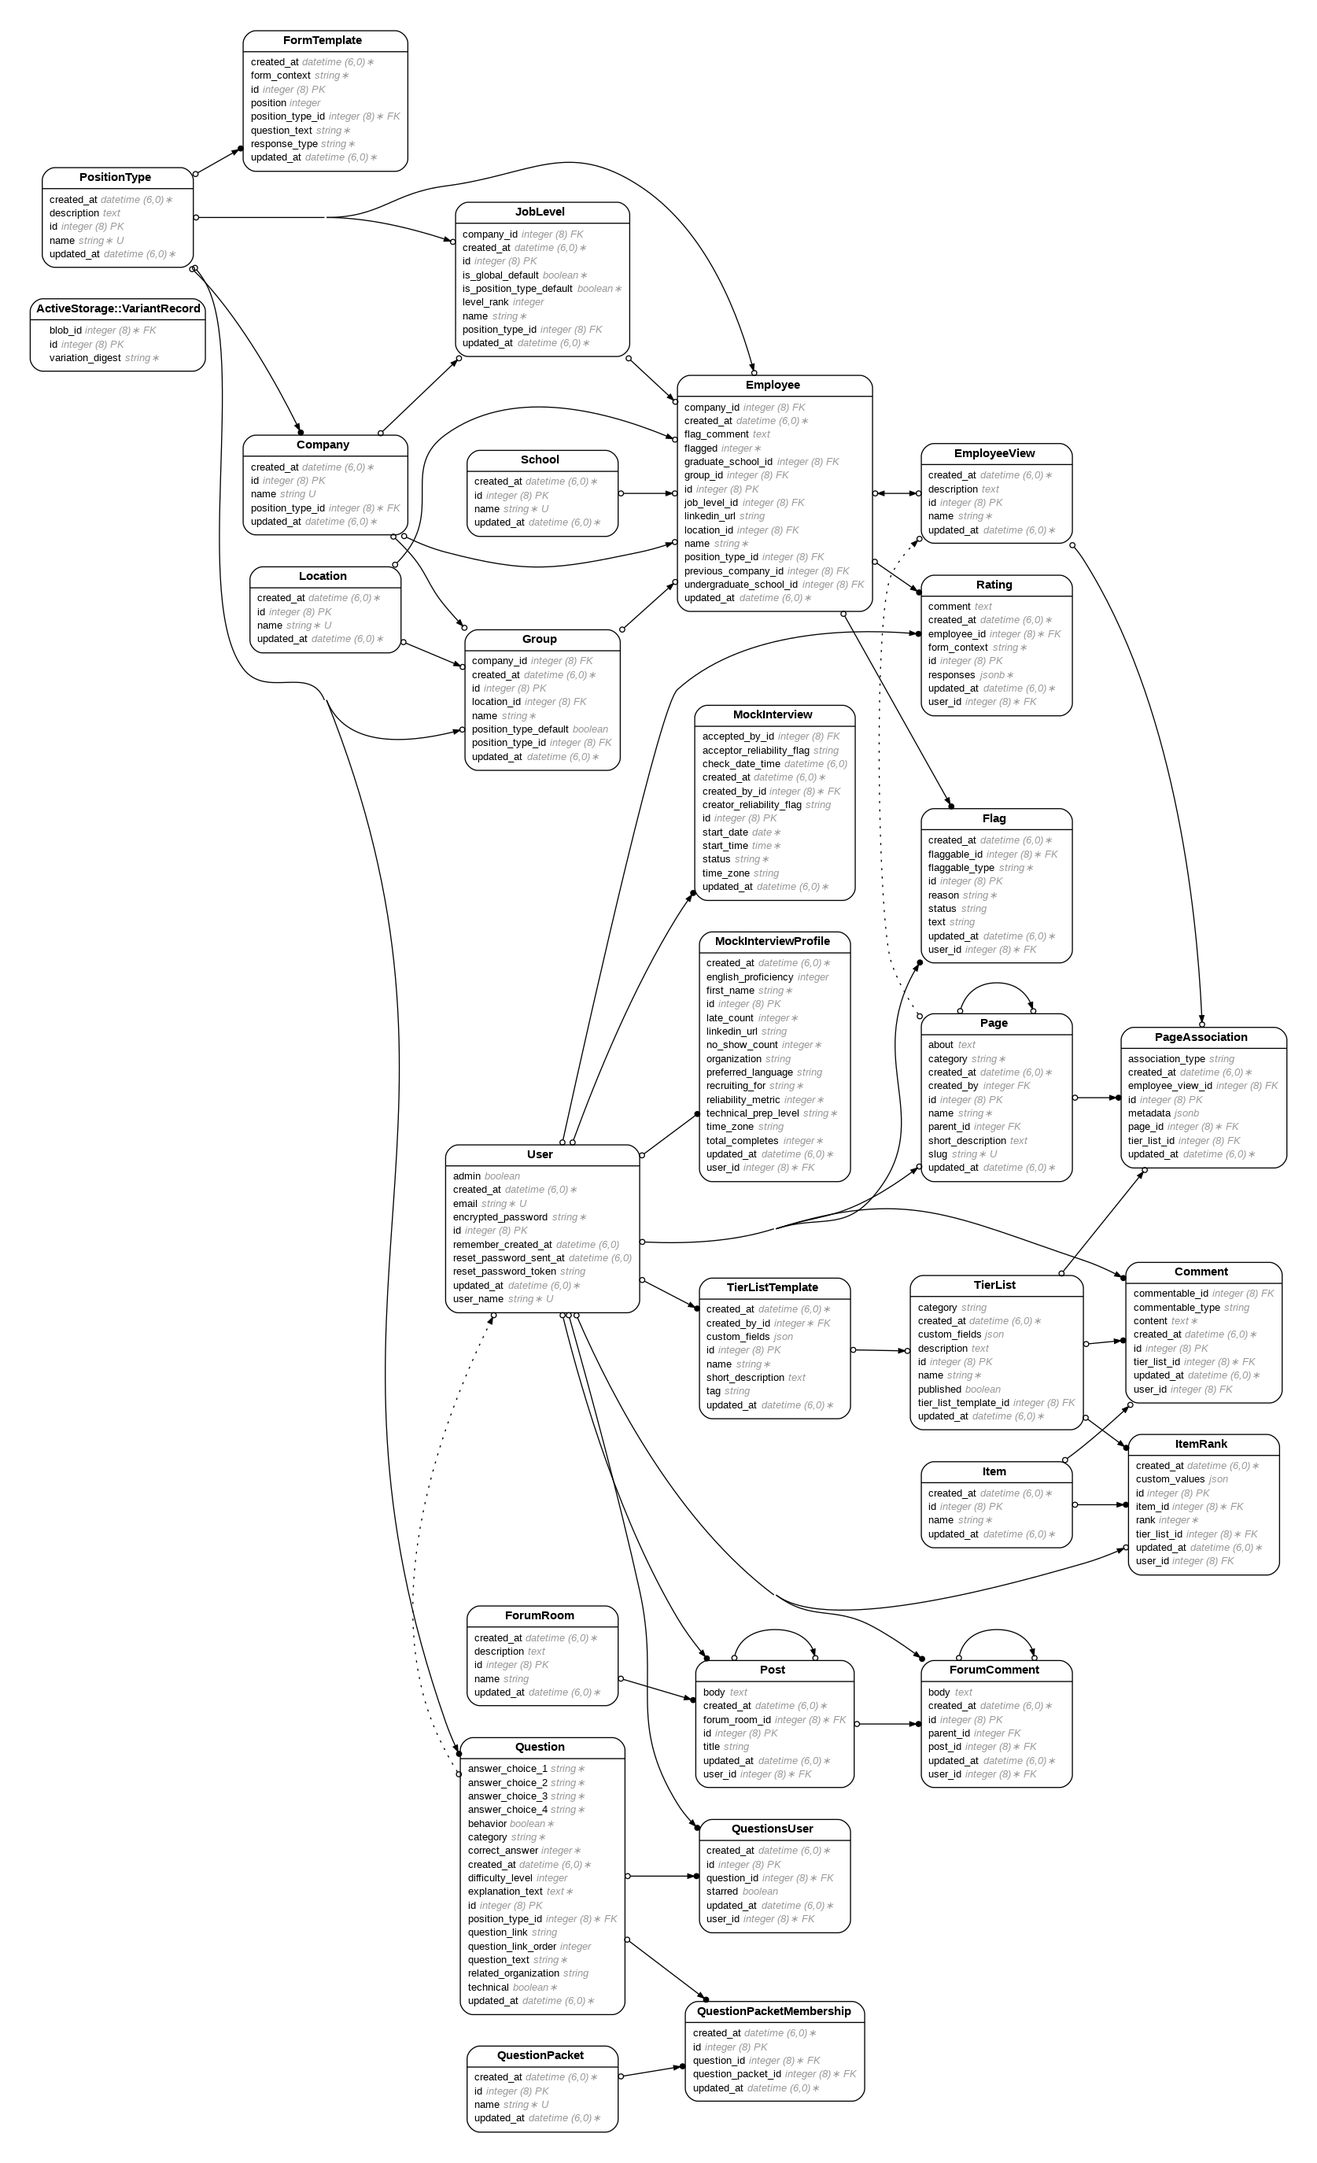
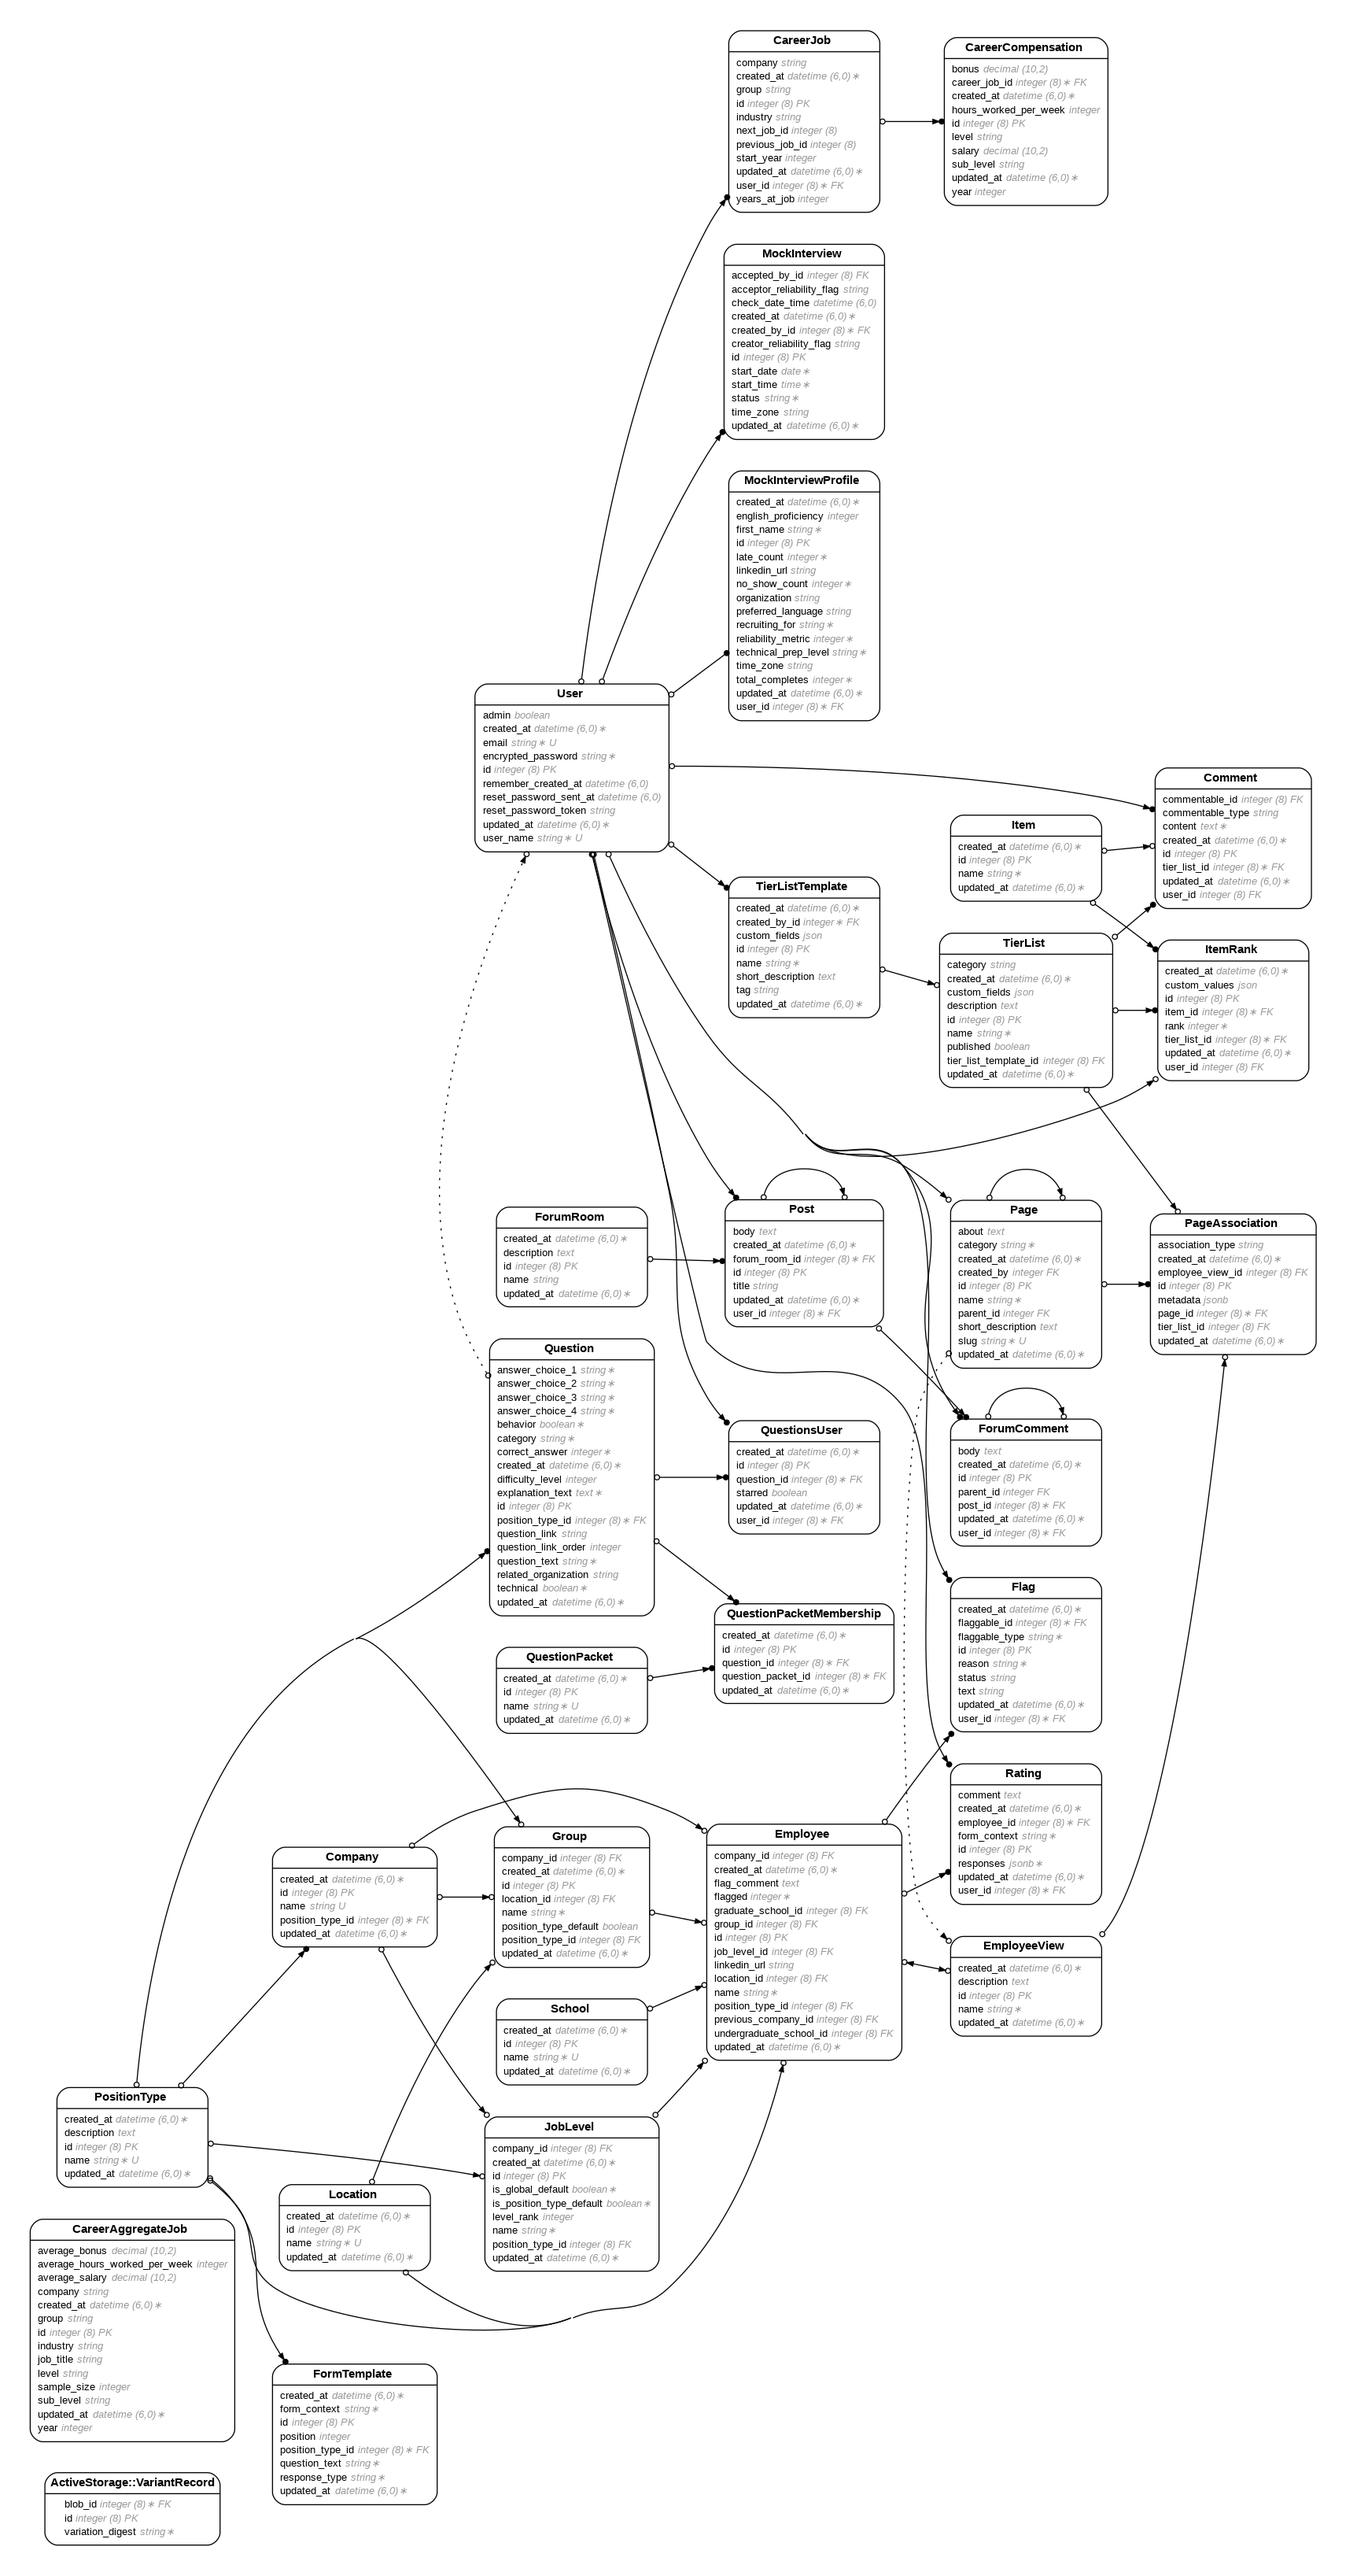
Created the compensation data back end

diff --git a/db/schema.rb b/db/schema.rb
@@ -10,7 +10,7 @@
 #
 # It's strongly recommended that you check this file into your version control system.
 
-ActiveRecord::Schema[7.1].define(version: 2025_01_22_221427) do
+ActiveRecord::Schema[7.1].define(version: 2025_01_28_023204) do
   # These are extensions that must be enabled in order to support this database
   enable_extension "plpgsql"
 
@@ -40,6 +40,51 @@ ActiveRecord::Schema[7.1].define(version: 2025_01_22_221427) do
     t.bigint "blob_id", null: false
     t.string "variation_digest", null: false
     t.index ["blob_id", "variation_digest"], name: "index_active_storage_variant_records_uniqueness", unique: true
+  end
+
+  create_table "career_aggregate_jobs", force: :cascade do |t|
+    t.string "job_title"
+    t.string "company"
+    t.string "industry"
+    t.string "group"
+    t.decimal "average_salary", precision: 10, scale: 2
+    t.decimal "average_bonus", precision: 10, scale: 2
+    t.integer "average_hours_worked_per_week"
+    t.integer "sample_size"
+    t.integer "year"
+    t.string "level"
+    t.string "sub_level"
+    t.datetime "created_at", null: false
+    t.datetime "updated_at", null: false
+  end
+
+  create_table "career_compensations", force: :cascade do |t|
+    t.bigint "career_job_id", null: false
+    t.integer "year"
+    t.string "level"
+    t.string "sub_level"
+    t.decimal "salary", precision: 10, scale: 2
+    t.decimal "bonus", precision: 10, scale: 2
+    t.integer "hours_worked_per_week"
+    t.datetime "created_at", null: false
+    t.datetime "updated_at", null: false
+    t.index ["career_job_id"], name: "index_career_compensations_on_career_job_id"
+  end
+
+  create_table "career_jobs", force: :cascade do |t|
+    t.bigint "user_id", null: false
+    t.string "company"
+    t.string "industry"
+    t.string "group"
+    t.integer "start_year"
+    t.integer "years_at_job"
+    t.bigint "previous_job_id"
+    t.bigint "next_job_id"
+    t.datetime "created_at", null: false
+    t.datetime "updated_at", null: false
+    t.index ["next_job_id"], name: "index_career_jobs_on_next_job_id"
+    t.index ["previous_job_id"], name: "index_career_jobs_on_previous_job_id"
+    t.index ["user_id"], name: "index_career_jobs_on_user_id"
   end
 
   create_table "comments", force: :cascade do |t|
@@ -392,6 +437,10 @@ ActiveRecord::Schema[7.1].define(version: 2025_01_22_221427) do
 
   add_foreign_key "active_storage_attachments", "active_storage_blobs", column: "blob_id"
   add_foreign_key "active_storage_variant_records", "active_storage_blobs", column: "blob_id"
+  add_foreign_key "career_compensations", "career_jobs"
+  add_foreign_key "career_jobs", "career_jobs", column: "next_job_id"
+  add_foreign_key "career_jobs", "career_jobs", column: "previous_job_id"
+  add_foreign_key "career_jobs", "users"
   add_foreign_key "comments", "tier_lists"
   add_foreign_key "comments", "users"
   add_foreign_key "companies", "position_types"

diff --git a/app/models/career_job.rb b/app/models/career_job.rb
@@ -1,0 +1,33 @@
+# == Schema Information
+#
+# Table name: career_jobs
+#
+#  id              :bigint           not null, primary key
+#  company         :string
+#  group           :string
+#  industry        :string
+#  start_year      :integer
+#  years_at_job    :integer
+#  created_at      :datetime         not null
+#  updated_at      :datetime         not null
+#  next_job_id     :bigint
+#  previous_job_id :bigint
+#  user_id         :bigint           not null
+#
+# Indexes
+#
+#  index_career_jobs_on_next_job_id      (next_job_id)
+#  index_career_jobs_on_previous_job_id  (previous_job_id)
+#  index_career_jobs_on_user_id          (user_id)
+#
+# Foreign Keys
+#
+#  fk_rails_...  (next_job_id => career_jobs.id)
+#  fk_rails_...  (previous_job_id => career_jobs.id)
+#  fk_rails_...  (user_id => users.id)
+#
+class CareerJob < ApplicationRecord
+  belongs_to :user
+  belongs_to :previous_job
+  belongs_to :next_job
+end

diff --git a/app/models/career_aggregate_job.rb b/app/models/career_aggregate_job.rb
@@ -1,0 +1,21 @@
+# == Schema Information
+#
+# Table name: career_aggregate_jobs
+#
+#  id                            :bigint           not null, primary key
+#  average_bonus                 :decimal(10, 2)
+#  average_hours_worked_per_week :integer
+#  average_salary                :decimal(10, 2)
+#  company                       :string
+#  group                         :string
+#  industry                      :string
+#  job_title                     :string
+#  level                         :string
+#  sample_size                   :integer
+#  sub_level                     :string
+#  year                          :integer
+#  created_at                    :datetime         not null
+#  updated_at                    :datetime         not null
+#
+class CareerAggregateJob < ApplicationRecord
+end

diff --git a/app/models/career_compensation.rb b/app/models/career_compensation.rb
@@ -1,0 +1,26 @@
+# == Schema Information
+#
+# Table name: career_compensations
+#
+#  id                    :bigint           not null, primary key
+#  bonus                 :decimal(10, 2)
+#  hours_worked_per_week :integer
+#  level                 :string
+#  salary                :decimal(10, 2)
+#  sub_level             :string
+#  year                  :integer
+#  created_at            :datetime         not null
+#  updated_at            :datetime         not null
+#  career_job_id         :bigint           not null
+#
+# Indexes
+#
+#  index_career_compensations_on_career_job_id  (career_job_id)
+#
+# Foreign Keys
+#
+#  fk_rails_...  (career_job_id => career_jobs.id)
+#
+class CareerCompensation < ApplicationRecord
+  belongs_to :career_job
+end

diff --git a/db/migrate/20250128023204_create_career_aggregate_jobs.rb b/db/migrate/20250128023204_create_career_aggregate_jobs.rb
@@ -1,0 +1,19 @@
+class CreateCareerAggregateJobs < ActiveRecord::Migration[7.1]
+  def change
+    create_table :career_aggregate_jobs do |t|
+      t.string :job_title
+      t.string :company
+      t.string :industry
+      t.string :group
+      t.decimal :average_salary, precision: 10, scale: 2
+      t.decimal :average_bonus, precision: 10, scale: 2
+      t.integer :average_hours_worked_per_week
+      t.integer :sample_size
+      t.integer :year
+      t.string :level
+      t.string :sub_level
+
+      t.timestamps
+    end
+  end
+end

diff --git a/db/migrate/20250128022112_create_career_jobs.rb b/db/migrate/20250128022112_create_career_jobs.rb
@@ -1,0 +1,16 @@
+class CreateCareerJobs < ActiveRecord::Migration[7.1]
+  def change
+    create_table :career_jobs do |t|
+      t.references :user, null: false, foreign_key: true
+      t.string :company
+      t.string :industry
+      t.string :group
+      t.integer :start_year
+      t.integer :years_at_job
+      t.references :previous_job, foreign_key: { to_table: :career_jobs }
+      t.references :next_job, foreign_key: { to_table: :career_jobs }
+
+      t.timestamps
+    end
+  end
+end

diff --git a/db/migrate/20250128022203_create_career_compensations.rb b/db/migrate/20250128022203_create_career_compensations.rb
@@ -1,0 +1,15 @@
+class CreateCareerCompensations < ActiveRecord::Migration[7.1]
+  def change
+    create_table :career_compensations do |t|
+      t.references :career_job, null: false, foreign_key: true
+      t.integer :year
+      t.string :level
+      t.string :sub_level
+      t.decimal :salary, precision: 10, scale: 2
+      t.decimal :bonus, precision: 10, scale: 2
+      t.integer :hours_worked_per_week
+
+      t.timestamps
+    end
+  end
+end
